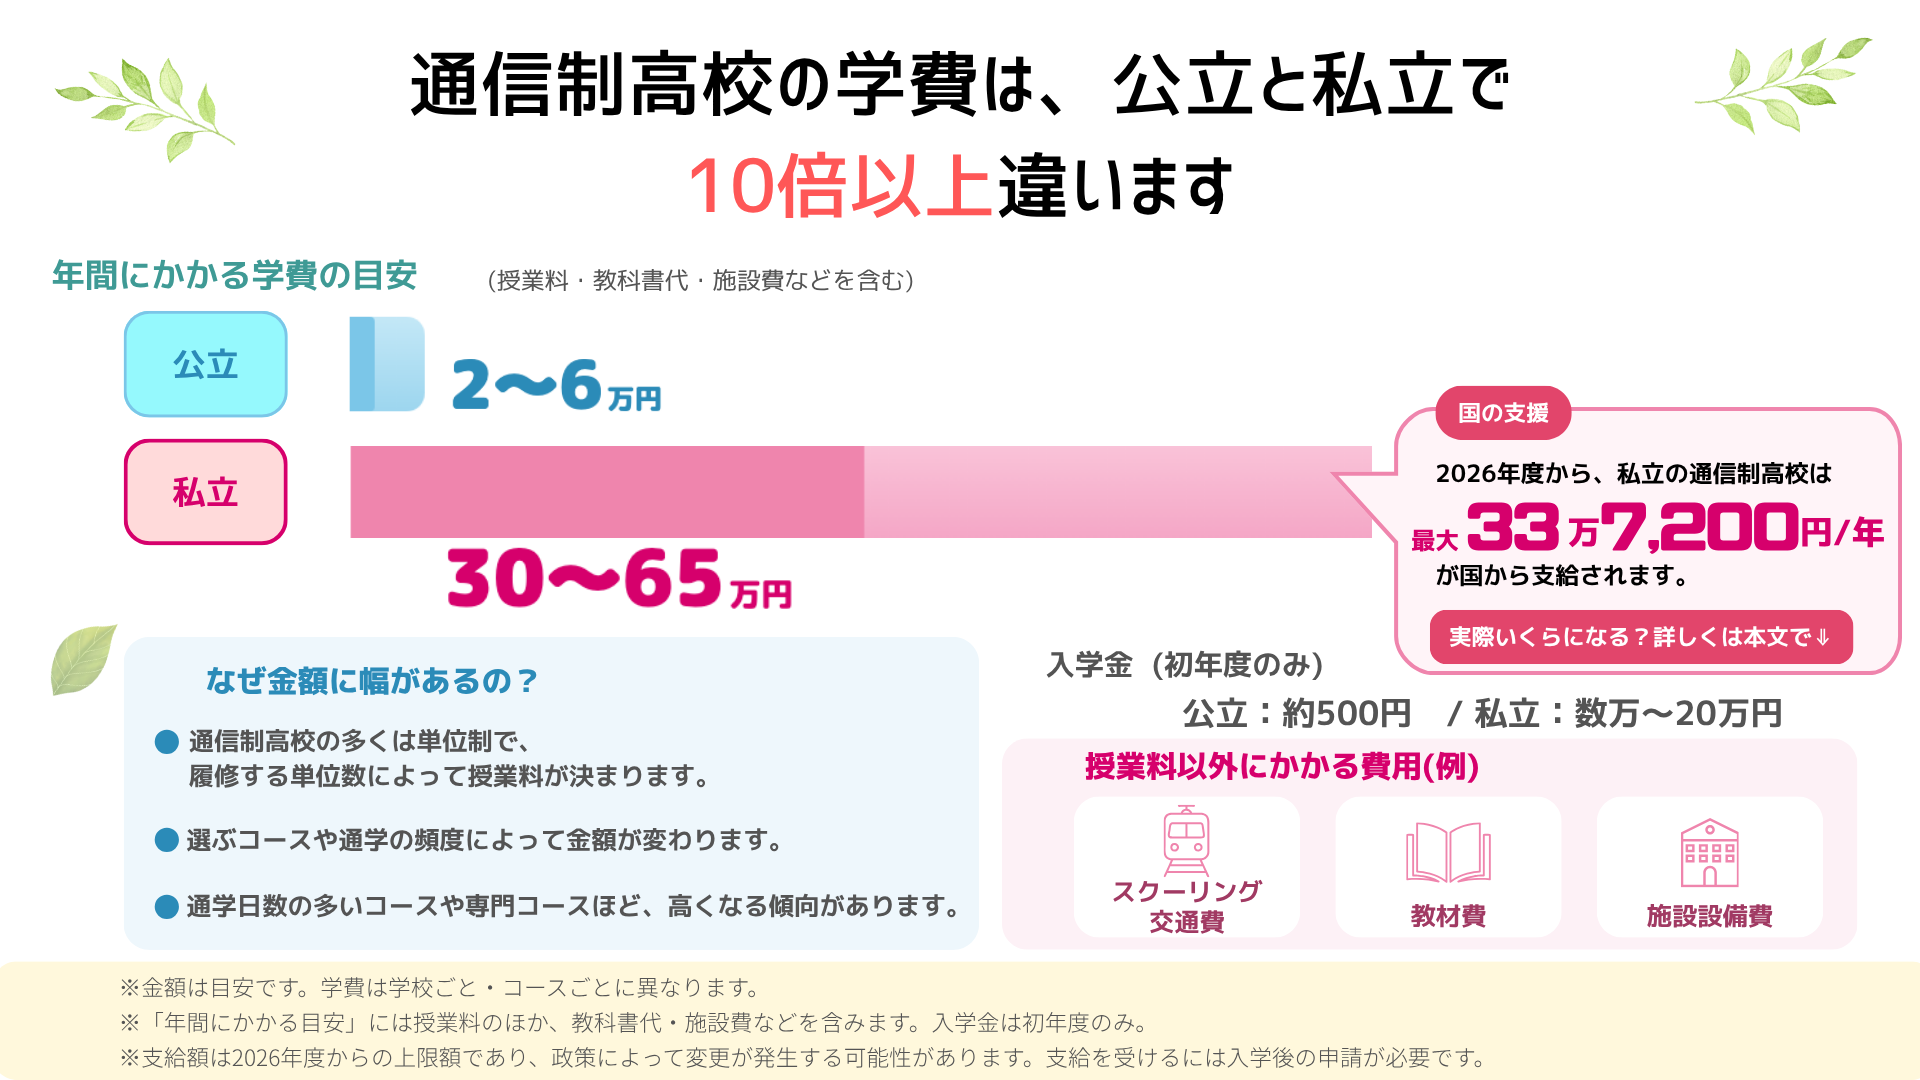
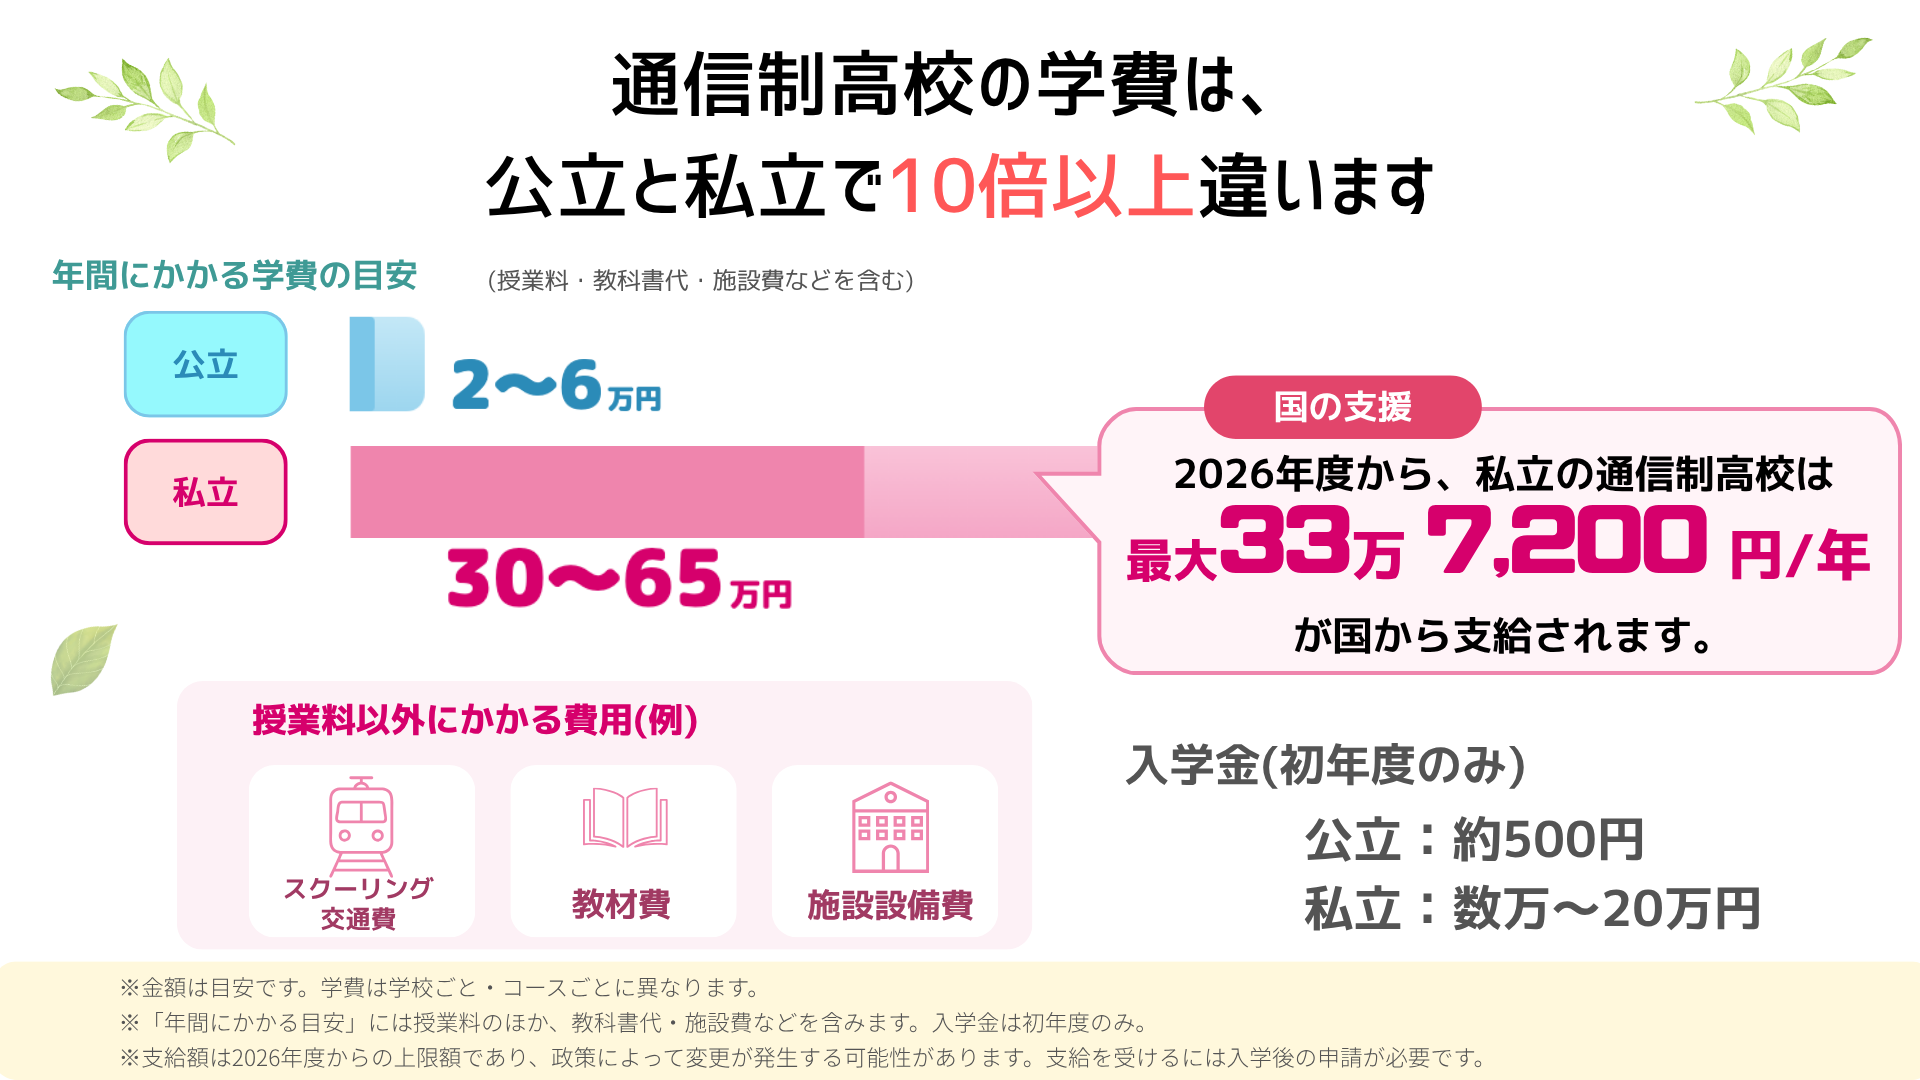
学費比較画像を新版に差し替え
02-gakuhi.png を差し替え（1920x1080px / 242KB）。
単位制の説明を削り、国の支援・授業料以外の費用・入学金を
整理した構成に更新。本文から単位制の記述を削除した変更と整合。

gakuhi.html の参照に ?v=2 を付与しキャッシュを無効化。
index.html の参照は変更していない。

Changed region(s): [[0.5312, 0.3361, 1.0, 0.8861], [0.2188, 0.0306, 0.7812, 0.2139], [0.0625, 0.6111, 0.5312, 0.8556]]

diff --git a/gakuhi.html b/gakuhi.html
@@ -278,7 +278,7 @@ footer{margin-top:60px; padding-top:24px; border-top:1px solid var(--line); font
 <p class="note">※「年間の目安」は、授業料のほか教科書代・施設費などを含んだ金額です。何が含まれるかは学校によって異なります。入学金は初年度のみかかります。</p>
 
 <figure>
-  <img src="images/02-gakuhi.png" alt="通信制高校の学費は公立と私立で10倍以上違う">
+  <img src="images/02-gakuhi.png?v=2" alt="通信制高校の学費は公立と私立で10倍以上違う">
   <div class="imgph">画像02：学費比較グラフ（images/02-gakuhi.png）</div>
 </figure>
 
